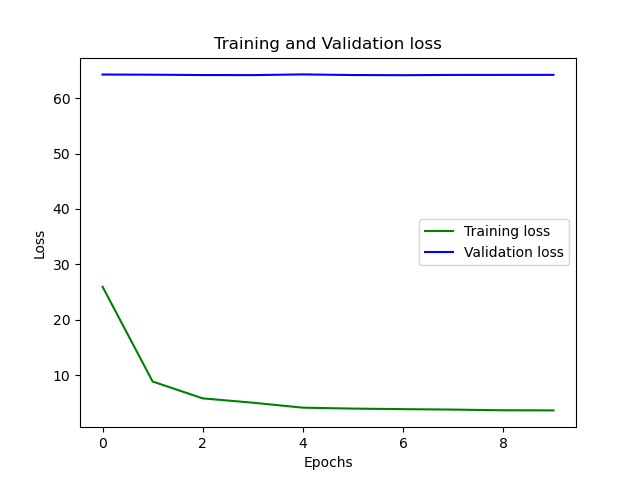
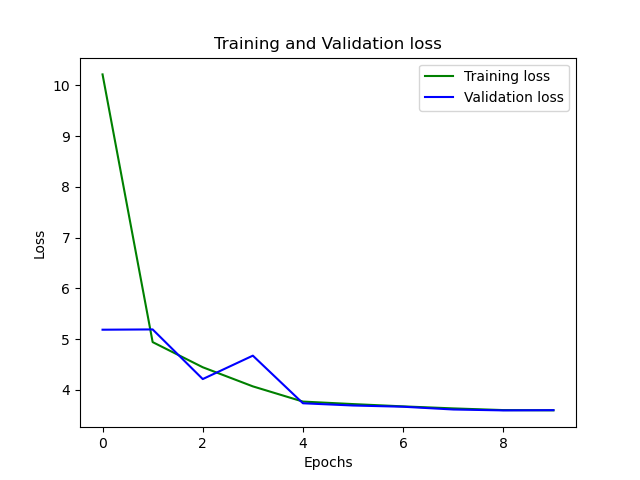
v46, autoencoder, smoothing and mask

diff --git a/unet_parts.py b/unet_parts.py
@@ -1,0 +1,78 @@
+""" Parts of the U-Net model """
+
+import torch
+import torch.nn as nn
+import torch.nn.functional as F
+
+
+class DoubleConv(nn.Module):
+    """(convolution => [BN] => ReLU) * 2"""
+
+    def __init__(self, in_channels, out_channels, mid_channels=None):
+        super().__init__()
+        if not mid_channels:
+            mid_channels = out_channels
+        self.double_conv = nn.Sequential(
+            nn.Conv2d(in_channels, mid_channels, kernel_size=3, padding=1),
+            nn.BatchNorm2d(mid_channels),
+            nn.ReLU(inplace=True),
+            nn.Conv2d(mid_channels, out_channels, kernel_size=3, padding=1),
+            nn.BatchNorm2d(out_channels),
+            nn.ReLU(inplace=True)
+        )
+
+    def forward(self, x):
+        return self.double_conv(x)
+
+
+class Down(nn.Module):
+    """Downscaling with maxpool then double conv"""
+
+    def __init__(self, in_channels, out_channels):
+        super().__init__()
+        self.maxpool_conv = nn.Sequential(
+            nn.MaxPool2d(2),
+            DoubleConv(in_channels, out_channels)
+        )
+
+    def forward(self, x):
+        return self.maxpool_conv(x)
+
+
+class Up(nn.Module):
+    """Upscaling then double conv"""
+
+    def __init__(self, in_channels, out_channels, bilinear=True):
+        super().__init__()
+
+        # if bilinear, use the normal convolutions to reduce the number of channels
+        if bilinear:
+            self.up = nn.Upsample(scale_factor=2, mode='bilinear', align_corners=True)
+            self.conv = DoubleConv(in_channels, out_channels, in_channels // 2)
+        else:
+            self.up = nn.ConvTranspose2d(in_channels , in_channels // 2, kernel_size=2, stride=2)
+            self.conv = DoubleConv(in_channels, out_channels)
+
+
+    def forward(self, x1, x2):
+        x1 = self.up(x1)
+        # input is CHW
+        diffY = x2.size()[2] - x1.size()[2]
+        diffX = x2.size()[3] - x1.size()[3]
+
+        x1 = F.pad(x1, [diffX // 2, diffX - diffX // 2,
+                        diffY // 2, diffY - diffY // 2])
+        # if you have padding issues, see
+        # https://github.com/HaiyongJiang/U-Net-Pytorch-Unstructured-Buggy/commit/0e854509c2cea854e247a9c615f175f76fbb2e3a
+        # https://github.com/xiaopeng-liao/Pytorch-UNet/commit/8ebac70e633bac59fc22bb5195e513d5832fb3bd
+        x = torch.cat([x2, x1], dim=1)
+        return self.conv(x)
+
+
+class OutConv(nn.Module):
+    def __init__(self, in_channels, out_channels):
+        super(OutConv, self).__init__()
+        self.conv = nn.Conv2d(in_channels, out_channels, kernel_size=1)
+
+    def forward(self, x):
+        return self.conv(x)

diff --git a/main_fpn.py b/main_fpn.py
@@ -3,9 +3,13 @@ from collections import Counter
 from dataset.nyuv2_dataset import NYUv2Dataset
 from model_fpn import DFILT
 from model_unet import DFILTUNET
+from sklearn.linear_model import LogisticRegression
+from sklearn.metrics import log_loss
 from torch.autograd import Variable
 from torch.utils.data.sampler import Sampler
 from torchvision import transforms
+from unet_model import UNet
+from autoencode import Autoencoder
 import argparse, time
 import matplotlib, cv2
 import matplotlib.pyplot as plt
@@ -388,7 +392,9 @@ if __name__ == '__main__':
     # network initialization
     print('Initializing model...')
     # dfilt = DFILT(fixed_feature_weights=False)
-    dfilt = DFILTUNET(fixed_feature_weights=False)
+    # dfilt = DFILTUNET(fixed_feature_weights=False)
+    dfilt = UNet(3,1)
+    dfilt = Autoencoder()
     if args.cuda:
         dfilt = dfilt.cuda()
     
@@ -427,6 +433,7 @@ if __name__ == '__main__':
     # eval_metric = RMSE_log()
     pwol = PixelWiseOutlierLoss()
     maskloss = MaskLoss()
+    criterion = nn.MSELoss()
     
     # resume
     if args.resume:
@@ -499,6 +506,7 @@ if __name__ == '__main__':
 
             dloss=d_crit(z_fake,z)
             loss = 1*dloss
+            # loss = criterion(z_fake, z)
 
             # pwloss = pwol(z_fake,z)
             # loss = pwloss
@@ -550,10 +558,11 @@ if __name__ == '__main__':
                 
                 z_fake = dfilt(img)
                 
-                # dloss=d_crit(z_fake,z)
-                # pwloss = pwol(z_fake,z)
-                mloss = maskloss(z_fake,z)
-                eval_loss += mloss
+                eloss=d_crit(z_fake,z)
+                # eloss = pwol(z_fake,z)
+                # eloss = maskloss(z_fake,z)
+                # eloss = criterion(z_fake, z)
+                eval_loss += eloss
                 
                 
             eval_loss = eval_loss/len(eval_dataloader)

diff --git a/autoencode.py b/autoencode.py
@@ -1,0 +1,41 @@
+import torch
+import torch.nn as nn
+import torch.nn.functional as F
+
+class Autoencoder(nn.Module):
+    def __init__(self):
+        super(Autoencoder, self).__init__()
+        # encoder layers
+        self.enc1 = nn.Conv2d(3, 64, kernel_size=3, padding=1)
+        self.enc2 = nn.Conv2d(64, 32, kernel_size=3, padding=1)
+        self.enc3 = nn.Conv2d(32, 16, kernel_size=3, padding=1)
+        self.enc4 = nn.Conv2d(16, 8, kernel_size=3, padding=1)
+        self.pool = nn.MaxPool2d(2, 2)
+        
+        # decoder layers
+        self.dec1 = nn.ConvTranspose2d(8, 8, kernel_size=3, stride=2)  
+        self.dec2 = nn.ConvTranspose2d(8, 16, kernel_size=3, stride=2)
+        self.dec3 = nn.ConvTranspose2d(16, 32, kernel_size=2, stride=2)
+        self.dec4 = nn.ConvTranspose2d(32, 64, kernel_size=2, stride=2)
+        self.out = nn.Conv2d(64, 1, kernel_size=3, padding=1)
+    def forward(self, x0):
+        # encode
+        x = F.relu(self.enc1(x0))
+        x = self.pool(x)
+        x = F.relu(self.enc2(x))
+        x = self.pool(x)
+        x = F.relu(self.enc3(x))
+        x = self.pool(x)
+        x = F.relu(self.enc4(x))
+        x = self.pool(x) # the latent space representation
+        
+        # decode
+        x = F.relu(self.dec1(x))
+        x = F.relu(self.dec2(x))
+        x = F.relu(self.dec3(x))
+        x = F.relu(self.dec4(x))
+        x = F.sigmoid(self.out(x))
+        x = F.interpolate(x, size=(x0.shape[2],x0.shape[3]), mode='bilinear')
+        return x
+net = Autoencoder()
+# print(net)

diff --git a/unet_model.py b/unet_model.py
@@ -1,0 +1,41 @@
+""" Full assembly of the parts to form the complete network """
+
+import torch.nn.functional as F
+
+from unet_parts import *
+
+
+class UNet(nn.Module):
+    def __init__(self, n_channels, n_classes, bilinear=True):
+        super(UNet, self).__init__()
+        self.n_channels = n_channels
+        self.n_classes = n_classes
+        self.bilinear = bilinear
+
+        self.inc = DoubleConv(n_channels, 64)
+        self.down1 = Down(64, 128)
+        self.down2 = Down(128, 256)
+        self.down3 = Down(256, 512)
+        factor = 2 if bilinear else 1
+        self.down4 = Down(512, 1024 // factor)
+        self.up1 = Up(1024, 512 // factor, bilinear)
+        self.up2 = Up(512, 256 // factor, bilinear)
+        self.up3 = Up(256, 128 // factor, bilinear)
+        self.up4 = Up(128, 64, bilinear)
+        self.outc = OutConv(64, n_classes)
+
+    def forward(self, x):
+        x1 = self.inc(x)
+        x2 = self.down1(x1)
+        x3 = self.down2(x2)
+        x4 = self.down3(x3)
+        x5 = self.down4(x4)
+        x = self.up1(x5, x4)
+        x = self.up2(x, x3)
+        x = self.up3(x, x2)
+        x = self.up4(x, x1)
+        logits = self.outc(x)
+        logits[logits<0] = 0
+        logits = logits / logits.max()
+        # print(logits.max(), logits.min())
+        return logits

diff --git a/eval.py b/eval.py
@@ -1,3 +1,4 @@
+from autoencode import Autoencoder
 from model_fpn import DFILT
 from model_unet import DFILTUNET
 from threading import Thread
@@ -34,7 +35,7 @@ def parse_args():
                       default=True, type=bool)
     parser.add_argument('--model_path', dest='model_path',
                       help='path to the model to use',
-                      default='saved_models/dfilt_1_9_v44.pth', type=str)
+                      default='saved_models/dfilt_1_9_v46.pth', type=str)
 
     args = parser.parse_args()
     return args
@@ -49,7 +50,8 @@ if __name__ == '__main__':
     # network initialization
     print('Initializing model...')
     # dfilt = DFILT(fixed_feature_weights=False)
-    dfilt = DFILTUNET(fixed_feature_weights=False)
+    # dfilt = DFILTUNET(fixed_feature_weights=False)
+    dfilt = Autoencoder()
     if args.cuda:
         dfilt = dfilt.cuda()
         

diff --git a/model_fpn.py b/model_fpn.py
@@ -134,6 +134,6 @@ class DFILT(nn.Module):
         # valid = x[0][1]!=0.0
         # pred4 = pred2.clone()
         # pred4[0][0] = pred2[0][0] * valid
-        pred2[pred2<3*torch.max(x)/10]=0
-        pred2[pred2>=7*torch.max(x)/10]=1
+        # pred2[pred2<3*torch.max(x)/10]=0
+        # pred2[pred2>=7*torch.max(x)/10]=1
         return pred2
